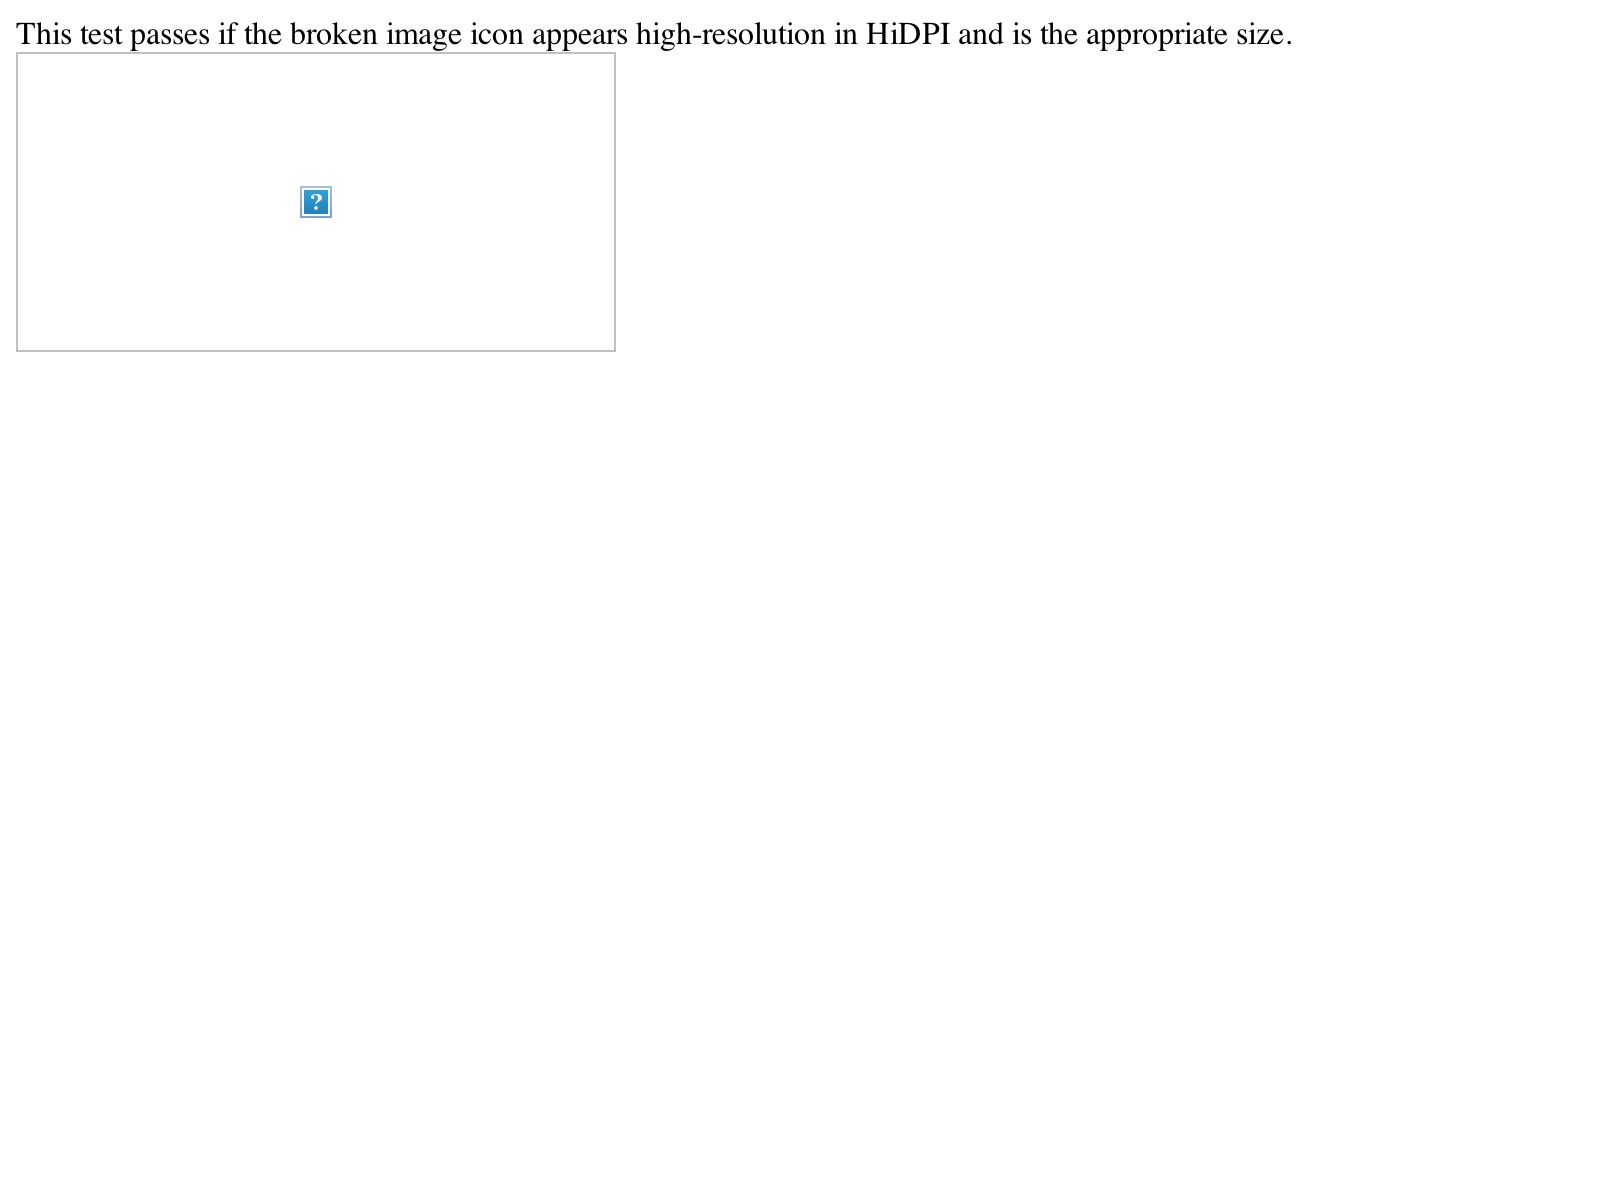
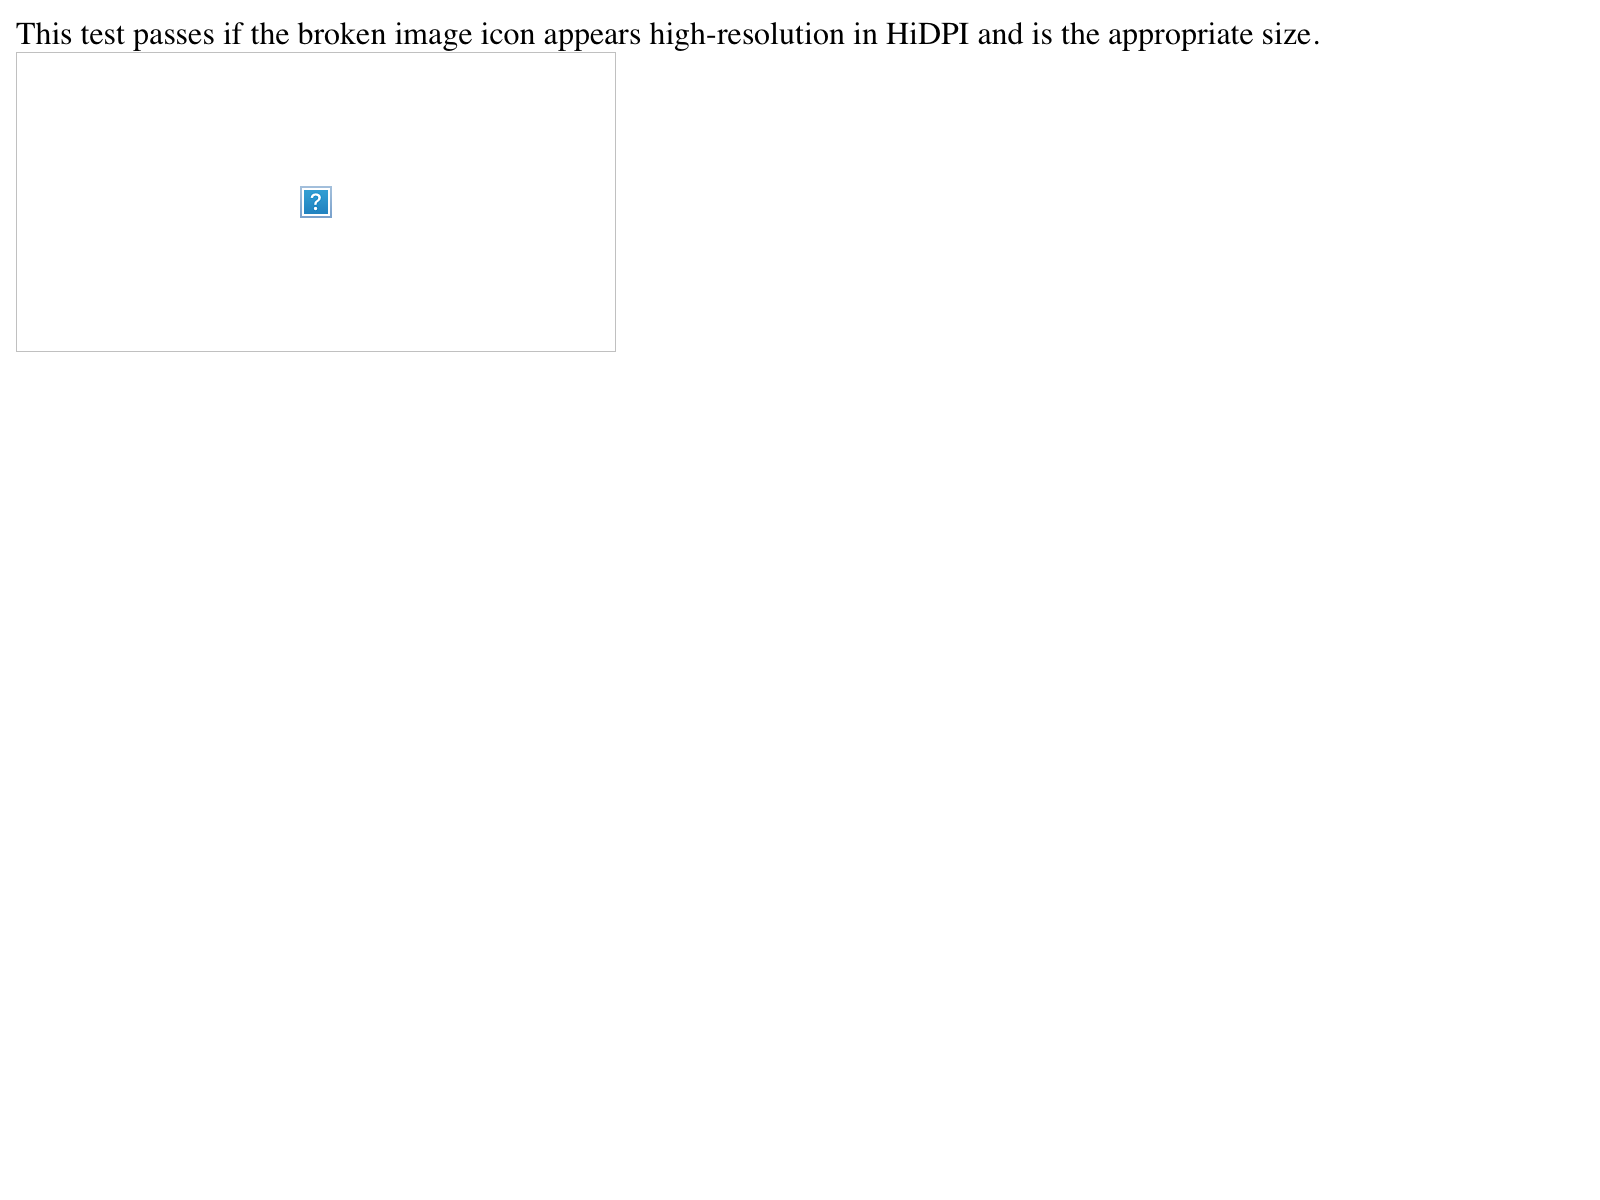
[Mac] Update missing image UI https://bugs.webkit.org/show_bug.cgi?id=142592
Reviewed by Darin Adler.

Update the broken image glyphs with new art (including a 3x image).

Test: fast/hidpi/broken-image-icon-very-hidpi.html

* Resources/missingImage.png:
* Resources/missingImage@2x.png:
* Resources/missingImage@3x.png: Added.
* WebCore.xcodeproj/project.pbxproj:
* loader/cache/CachedImage.cpp:
(WebCore::CachedImage::brokenImage):

git-svn-id: http://svn.webkit.org/repository/webkit/trunk@181608 268f45cc-cd09-0410-ab3c-d52691b4dbfc

Changed region(s): [[0.0625, 0.0, 0.8125, 0.0617]]

diff --git a/LayoutTests/fast/hidpi/broken-image-icon-very-hidpi.html b/LayoutTests/fast/hidpi/broken-image-icon-very-hidpi.html
@@ -1,0 +1,19 @@
+<html>
+    <script>
+        function startTest() {
+            if (window.testRunner) {
+                testRunner.waitUntilDone();
+                testRunner.setBackingScaleFactor(3, finishTest);
+            }
+        }
+        
+        function finishTest() {
+            setTimeout(function() { testRunner.notifyDone(); }, 0);
+        }
+        </script>
+    </head>
+    <body onload="startTest();">
+        <div>This test passes if the broken image icon appears high-resolution in HiDPI and if the outline is of the appropriate size.</div>
+        <img src="not-there.png"></img>
+    </body>
+</html>

diff --git a/Source/WebCore/loader/cache/CachedImage.cpp b/Source/WebCore/loader/cache/CachedImage.cpp
@@ -170,6 +170,11 @@ void CachedImage::allClientsRemoved()
 
 std::pair<Image*, float> CachedImage::brokenImage(float deviceScaleFactor) const
 {
+    if (deviceScaleFactor >= 3) {
+        static NeverDestroyed<Image*> brokenImageVeryHiRes(Image::loadPlatformResource("missingImage@3x").leakRef());
+        return std::make_pair(brokenImageVeryHiRes, 3);
+    }
+
     if (deviceScaleFactor >= 2) {
         static NeverDestroyed<Image*> brokenImageHiRes(Image::loadPlatformResource("missingImage@2x").leakRef());
         return std::make_pair(brokenImageHiRes, 2);
